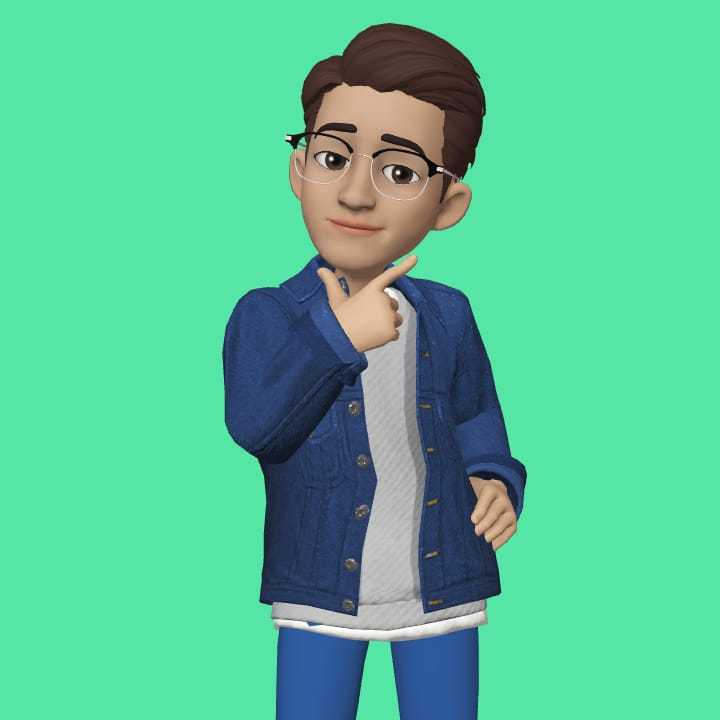
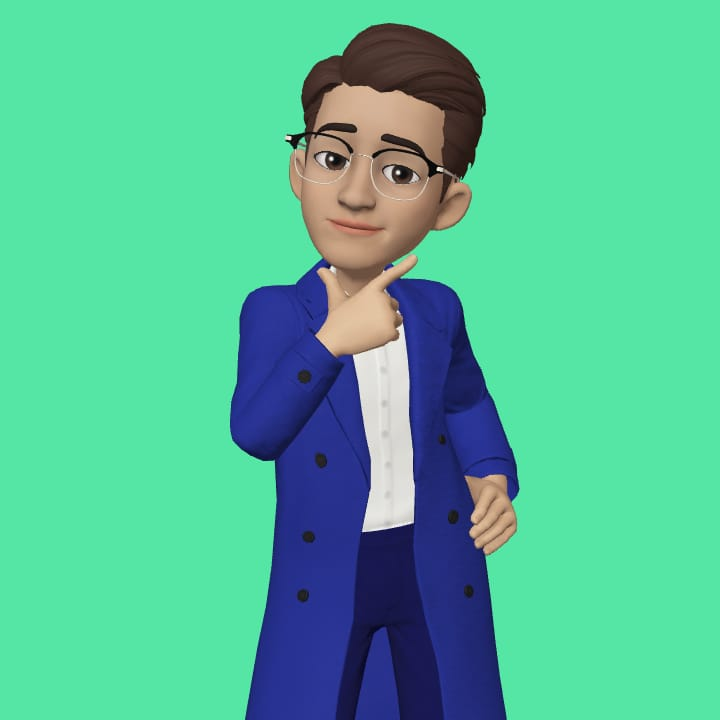
feat: about session and new imgs

Changed region(s): [[0.3056, 0.3361, 0.7333, 1.0]]

diff --git a/Components/About.tsx b/Components/About.tsx
@@ -1,0 +1,43 @@
+import { ArrowDownTrayIcon } from "@heroicons/react/16/solid";
+import Image from "next/image";
+
+const About = () => {
+  return (
+    <div className="bg-[#121121] pb-[3rem] md:pt-[8rem]">
+      <div className="grid grid-cols-1 md:grid-cols-2 w-[80%] mx-auto gap-[3rem] items-center">
+        <div>
+          <h1 className="text-[20px] font-bold uppercase text-[#55e6a5] mb-[1rem]">
+            About me
+          </h1>
+          <h2 className="text-[25px] md:text-[35px] lg:text-[45px] mb:leading-[3rem] leading-[2rem] capitalize mb-[3rem] font-bold text-white">
+            Transforming <span className="text-blue-400">Visions</span>
+          </h2>
+          <div className="mb-[3rem] flex items-center md:space-x-10">
+            <span className="w-[100px] hidden md:block h-[5px] bg-slate-400 rounded-sm"></span>
+            <p className="text-[19px] text-slate-300 w-[80%]">
+              Learning to write programs stretches your mind, and helps you
+              think better, creates a way of thinking about things that I think
+              is helpful in all domains
+              <span className="text-slate-60000 font-bold"> - Bill Gates</span>
+            </p>
+          </div>
+          <button className="px-[2rem] hover:bg-blue-400 transition-all duration-200 py-[1rem] text-[18px] font-bold uppercase bg-[#55e6a5] text-black flex items-center space-x-2 rounded">
+            <p>Download CV</p>
+            <ArrowDownTrayIcon className="w-[1.6rem] h-[1.7rem] text-black" />
+          </button>
+        </div>
+        <div className="lg:w-[500px] mx-auto md:mx-0 mt-[2rem] lg:mt-0 lg:h-[500px] w-[300px] relative">
+          <Image
+            src="/images/me/armsCrossed.jpg"
+            alt="user"
+            layout="fill"
+            objectFit="contain"
+            className="relative z-[11] w-[100%] h-[100%] object-contain rounded-md"
+          />
+        </div>
+      </div>
+    </div>
+  );
+};
+
+export default About;

diff --git a/Components/Nav.tsx b/Components/Nav.tsx
@@ -6,7 +6,7 @@ interface Props {
 
 const Nav = ({ openNav }: Props) => {
   return (
-    <div className="w-[100%] sticky z-[1000] top-0 h-[12vh] bg-[#141c27] shadow-md">
+    <div className="w-[100%] top-0 h-[12vh] bg-[#141c27] shadow-md">
       <div className="flex items-center justify-between w-[80%] mx-auto h-[100%]">
         <h1 className="flex-[0.6] cursor-pointer text-[25px] text-white font-bold">
           WEB<span className="text-blue-300">DEV</span>

diff --git a/pages/index.tsx b/pages/index.tsx
@@ -1,3 +1,4 @@
+import About from "@/Components/About";
 import Hero from "@/Components/Hero";
 import MobileNav from "@/Components/MobileNav";
 import Nav from "@/Components/Nav";
@@ -15,6 +16,9 @@ const Home = () => {
         <Nav openNav={openNav} />
 
         <Hero />
+        <div className="relative z-[30]">
+          <About />
+        </div>
       </div>
     </div>
   );
